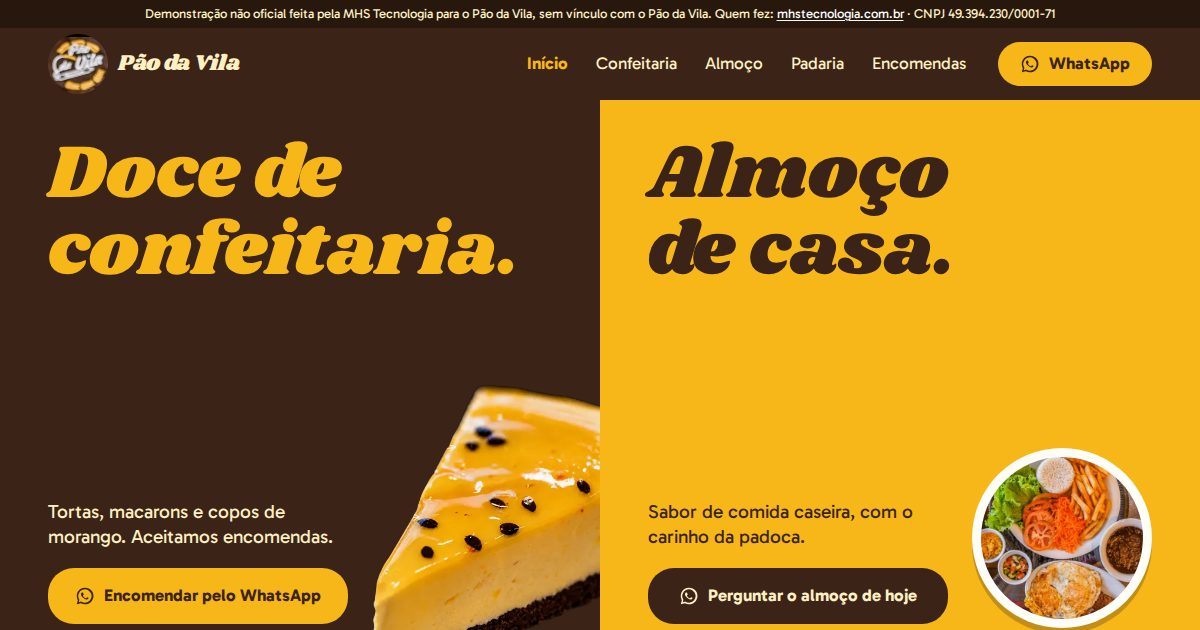
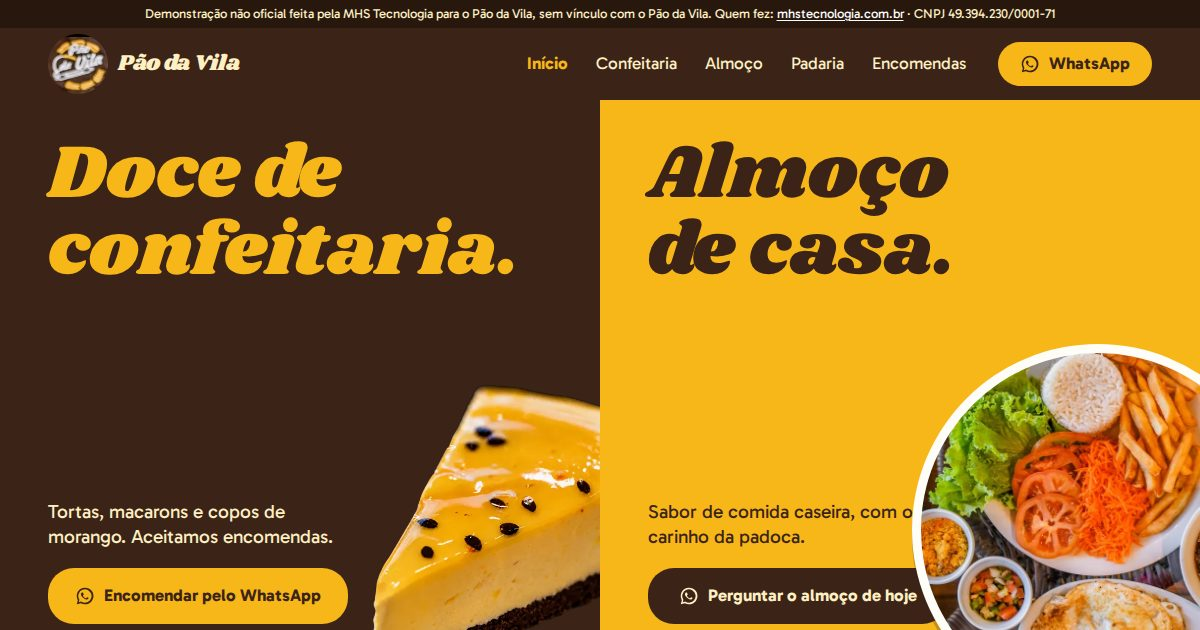
Previews: 44 ativos

Changed region(s): [[0.74, 0.5429, 1.0, 1.0]]

diff --git a/pao-da-vila-joinville-sc/index.html b/pao-da-vila-joinville-sc/index.html
@@ -40,14 +40,14 @@
       <p>Tortas, macarons e copos de morango. Aceitamos encomendas.</p>
       <a class="btn " href="https://wa.me/554792177555?text=Oi!%20Vi%20a%20demonstra%C3%A7%C3%A3o%20do%20site%20e%20queria%20encomendar%20um%20doce."><svg class="ic" viewBox="0 0 24 24" width="20" height="20" aria-hidden="true"><path fill="currentColor" d="M12 2a10 10 0 0 0-8.6 15l-1.3 5 5.1-1.3A10 10 0 1 0 12 2Zm0 18a8 8 0 0 1-4.2-1.2l-.3-.2-3 .8.8-2.9-.2-.3A8 8 0 1 1 12 20Zm4.5-5.6c-.2-.1-1.5-.7-1.7-.8-.2-.1-.4-.1-.6.1l-.8 1c-.1.2-.3.2-.5.1a6.6 6.6 0 0 1-3.300-2.900c-.1-.2 0-.4.1-.5l.4-.5.3-.4v-.5l-.8-1.800c-.2-.5-.4-.4-.6-.4h-.5c-.2 0-.4.1-.6.3a2.500 2.500 0 0 0-.8 1.900 4.400 4.400 0 0 0 .9 2.300 10 10 0 0 0 3.800 3.400c2.200.9 2.200.6 2.600.6a2.200 2.200 0 0 0 1.500-1 1.800 1.800 0 0 0 .1-1c0-.1-.2-.2-.5-.3Z"/></svg><span>Encomendar pelo WhatsApp</span></a>
     </div>
-    <img src="img/fatia-1000.webp" srcset="img/fatia-420.webp 420w, img/fatia-720.webp 720w, img/fatia-1000.webp 1000w" sizes="(max-width: 860px) 46vw, 30vw" width="1000" height="1206" alt="Fatia de cheesecake de maracujá com sementes e base de chocolate" fetchpriority="high" class="h-fatia">
+    <img src="img/fatia-1000.webp" srcset="img/fatia-420.webp 420w, img/fatia-720.webp 720w, img/fatia-1000.webp 1000w" sizes="(max-width: 860px) 46vw, 30vw" width="1000" height="1206" alt="Fatia de maracujá com sementes e base de chocolate" fetchpriority="high" class="h-fatia">
   </div>
   <div class="lado lado-almoco">
     <div class="lado-txt">
       <p>Sabor de comida caseira, com o carinho da padoca.</p>
       <a class="btn btn-cacau" href="https://wa.me/554792177555?text=Oi!%20Qual%20%C3%A9%20o%20almo%C3%A7o%20de%20hoje%3F"><svg class="ic" viewBox="0 0 24 24" width="20" height="20" aria-hidden="true"><path fill="currentColor" d="M12 2a10 10 0 0 0-8.6 15l-1.3 5 5.1-1.3A10 10 0 1 0 12 2Zm0 18a8 8 0 0 1-4.2-1.2l-.3-.2-3 .8.8-2.9-.2-.3A8 8 0 1 1 12 20Zm4.5-5.6c-.2-.1-1.5-.7-1.7-.8-.2-.1-.4-.1-.6.1l-.8 1c-.1.2-.3.2-.5.1a6.6 6.6 0 0 1-3.300-2.900c-.1-.2 0-.4.1-.5l.4-.5.3-.4v-.5l-.8-1.800c-.2-.5-.4-.4-.6-.4h-.5c-.2 0-.4.1-.6.3a2.500 2.500 0 0 0-.8 1.900 4.400 4.400 0 0 0 .9 2.300 10 10 0 0 0 3.800 3.400c2.200.9 2.200.6 2.600.6a2.200 2.200 0 0 0 1.500-1 1.800 1.800 0 0 0 .1-1c0-.1-.2-.2-.5-.3Z"/></svg><span>Perguntar o almoço de hoje</span></a>
     </div>
-    <div class="prato"><img src="img/mesa-1100.webp" srcset="img/mesa-420.webp 420w, img/mesa-720.webp 720w, img/mesa-1100.webp 1100w" sizes="(max-width: 860px) 42vw, 26vw" width="1100" height="1100" alt="Almoço servido visto de cima: arroz, salada, batata frita, feijão, bife e ovo" fetchpriority="auto"></div>
+    <div class="prato"><img src="img/mesa-1100.webp" srcset="img/mesa-420.webp 420w, img/mesa-720.webp 720w, img/mesa-1100.webp 1100w" sizes="(max-width: 860px) 42vw, 440px" width="1100" height="1100" alt="Almoço servido visto de cima: arroz, salada, batata frita, feijão, bife e ovo" fetchpriority="auto"></div>
   </div>
 </section>
 <p class="faixa">O vizinho que t&#111;do mundo confia. Rua João Meiers, 795, Joinville.</p>
@@ -59,12 +59,12 @@
   </div>
   <div class="vidro">
     <ul class="prateleira">
-      <li><div class="vaga ponta-e"><img src="img/v-tortinha-640.webp" srcset="img/v-tortinha-320.webp 320w, img/v-tortinha-640.webp 640w" sizes="(max-width: 860px) 46vw, 30vw" width="640" height="490" alt="Tortinha coberta de morangos com borda de castanha picada" loading="lazy" decoding="async"></div><p class="etiqueta">Tortinha de morango</p></li>
-      <li><div class="vaga "><img src="img/v-macarons-640.webp" srcset="img/v-macarons-320.webp 320w, img/v-macarons-640.webp 640w" sizes="(max-width: 860px) 46vw, 30vw" width="640" height="387" alt="Três macarons azul-turquesa recheados de chocolate" loading="lazy" decoding="async"></div><p class="etiqueta">Macarons</p></li>
+      <li><div class="vaga atras"><img src="img/v-tortinha-640.webp" srcset="img/v-tortinha-320.webp 320w, img/v-tortinha-640.webp 640w" sizes="(max-width: 860px) 46vw, 30vw" width="640" height="490" alt="Tortinha coberta de morangos com borda de castanha picada" loading="lazy" decoding="async"></div><p class="etiqueta">Tortinha de morango</p></li>
+      <li><div class="vaga frente"><img src="img/v-macarons-640.webp" srcset="img/v-macarons-320.webp 320w, img/v-macarons-640.webp 640w" sizes="(max-width: 860px) 46vw, 30vw" width="640" height="387" alt="Três macarons azul-turquesa recheados de chocolate" loading="lazy" decoding="async"></div><p class="etiqueta">Macarons</p></li>
       <li><div class="vaga "><img src="img/v-fatia-640.webp" srcset="img/v-fatia-320.webp 320w, img/v-fatia-640.webp 640w" sizes="(max-width: 860px) 46vw, 30vw" width="640" height="582" alt="Fatia de bolo de chocolate com creme confeitado, morango e bombom" loading="lazy" decoding="async"></div><p class="etiqueta">Fatia de chocolate</p></li>
       <li><div class="vaga "><img src="img/v-cookie-640.webp" srcset="img/v-cookie-320.webp 320w, img/v-cookie-640.webp 640w" sizes="(max-width: 860px) 46vw, 30vw" width="640" height="289" alt="Cookie de chocolate coberto de confetes coloridos" loading="lazy" decoding="async"></div><p class="etiqueta">Cookie com confete</p></li>
-      <li><div class="vaga "><img src="img/v-bolinho-640.webp" srcset="img/v-bolinho-320.webp 320w, img/v-bolinho-640.webp 640w" sizes="(max-width: 860px) 46vw, 30vw" width="640" height="377" alt="Bolinho dourado numa forminha de papel pregueada" loading="lazy" decoding="async"></div><p class="etiqueta">Bolinho na forminha</p></li>
-      <li><div class="vaga ponta-d"><img src="img/v-torta-640.webp" srcset="img/v-torta-320.webp 320w, img/v-torta-640.webp 640w" sizes="(max-width: 860px) 46vw, 30vw" width="640" height="474" alt="Torta com cobertura branca e bombons cortados por cima" loading="lazy" decoding="async"></div><p class="etiqueta">Torta com bombons</p></li>
+      <li><div class="vaga atras"><img src="img/v-torta-640.webp" srcset="img/v-torta-320.webp 320w, img/v-torta-640.webp 640w" sizes="(max-width: 860px) 46vw, 30vw" width="640" height="474" alt="Torta com cobertura branca e bombons cortados por cima" loading="lazy" decoding="async"></div><p class="etiqueta">Torta com bombons</p></li>
+      <li><div class="vaga frente"><img src="img/v-bolinho-640.webp" srcset="img/v-bolinho-320.webp 320w, img/v-bolinho-640.webp 640w" sizes="(max-width: 860px) 46vw, 30vw" width="640" height="377" alt="Doce dourado numa forminha de papel pregueada" loading="lazy" decoding="async"></div><p class="etiqueta">Assado na forminha</p></li>
     </ul>
   </div>
   <div class="vitrine-pe">
@@ -85,12 +85,12 @@
 
 <section class="balcao" aria-labelledby="t-balcao">
   <div class="balcao-txt">
-    <h2 id="t-balcao">Pão, salgado e café</h2>
+    <h2 id="t-balcao">Padaria e café</h2>
     <p>Além da confeitaria, o Pão da Vila é café, pães e salgados.</p>
     <a class="link-escuro" href="padaria.html">Ver a padaria</a>
   </div>
-  <figure class="b1"><img src="img/paes-900.webp" srcset="img/paes-560.webp 560w, img/paes-900.webp 900w" sizes="(max-width: 860px) 60vw, 34vw" width="900" height="1125" alt="Pães franceses dourados, um deles partido ao meio" loading="lazy" decoding="async"><figcaption>Pão francês</figcaption></figure>
-  <figure class="b2"><img src="img/salgado-900.webp" srcset="img/salgado-560.webp 560w, img/salgado-900.webp 900w" sizes="(max-width: 860px) 50vw, 26vw" width="900" height="1125" alt="Pães recheados assados num prato, com ervas por cima" loading="lazy" decoding="async"><figcaption>Pão recheado assado</figcaption></figure>
+  <figure class="b1"><img src="img/rosquinhas-900.webp" srcset="img/rosquinhas-560.webp 560w, img/rosquinhas-900.webp 900w" sizes="(max-width: 860px) 60vw, 34vw" width="900" height="1125" alt="Rosquinhas fritas empilhadas, polvilhadas de açúcar" loading="lazy" decoding="async"><figcaption>Rosquinhas com açúcar</figcaption></figure>
+  <figure class="b2"><img src="img/cuca-900.webp" srcset="img/cuca-560.webp 560w, img/cuca-900.webp 900w" sizes="(max-width: 860px) 50vw, 26vw" width="900" height="1125" alt="Doce com farofa dourada numa travessa preta, com xícara de café ao fundo" loading="lazy" decoding="async"><figcaption>Doce com farofa e café</figcaption></figure>
 </section>
 
 <section class="encomenda" aria-labelledby="t-enc">
@@ -136,7 +136,7 @@
     <p>Removido a pedido: <a href="mailto:contato@mhstecnologia.com.br">contato@mhstecnologia.com.br</a></p>
   </div>
 </footer>
-<a class="fixo" href="https://wa.me/554792177555?text=Oi!%20Vi%20a%20demonstra%C3%A7%C3%A3o%20do%20site%20e%20queria%20encomendar%20um%20doce." aria-label="Encomendar pelo WhatsApp"><svg class="ic" viewBox="0 0 24 24" width="20" height="20" aria-hidden="true"><path fill="currentColor" d="M12 2a10 10 0 0 0-8.6 15l-1.3 5 5.1-1.3A10 10 0 1 0 12 2Zm0 18a8 8 0 0 1-4.2-1.2l-.3-.2-3 .8.8-2.9-.2-.3A8 8 0 1 1 12 20Zm4.5-5.6c-.2-.1-1.5-.7-1.7-.8-.2-.1-.4-.1-.6.1l-.8 1c-.1.2-.3.2-.5.1a6.6 6.6 0 0 1-3.300-2.900c-.1-.2 0-.4.1-.5l.4-.5.3-.4v-.5l-.8-1.800c-.2-.5-.4-.4-.6-.4h-.5c-.2 0-.4.1-.6.3a2.500 2.500 0 0 0-.8 1.900 4.400 4.400 0 0 0 .9 2.300 10 10 0 0 0 3.800 3.400c2.200.9 2.200.6 2.600.6a2.200 2.200 0 0 0 1.500-1 1.800 1.800 0 0 0 .1-1c0-.1-.2-.2-.5-.3Z"/></svg><span>Encomendar pelo WhatsApp</span></a>
+<a class="fixo" href="https://wa.me/554792177555?text=Oi!%20Vi%20a%20demonstra%C3%A7%C3%A3o%20do%20site%20e%20queria%20encomendar%20um%20doce."><svg class="ic" viewBox="0 0 24 24" width="20" height="20" aria-hidden="true"><path fill="currentColor" d="M12 2a10 10 0 0 0-8.6 15l-1.3 5 5.1-1.3A10 10 0 1 0 12 2Zm0 18a8 8 0 0 1-4.2-1.2l-.3-.2-3 .8.8-2.9-.2-.3A8 8 0 1 1 12 20Zm4.5-5.6c-.2-.1-1.5-.7-1.7-.8-.2-.1-.4-.1-.6.1l-.8 1c-.1.2-.3.2-.5.1a6.6 6.6 0 0 1-3.300-2.900c-.1-.2 0-.4.1-.5l.4-.5.3-.4v-.5l-.8-1.800c-.2-.5-.4-.4-.6-.4h-.5c-.2 0-.4.1-.6.3a2.500 2.500 0 0 0-.8 1.900 4.400 4.400 0 0 0 .9 2.300 10 10 0 0 0 3.800 3.400c2.200.9 2.200.6 2.600.6a2.200 2.200 0 0 0 1.500-1 1.800 1.800 0 0 0 .1-1c0-.1-.2-.2-.5-.3Z"/></svg><span>Encomendar pelo WhatsApp</span></a>
 <script src="app.js" defer></script>
 </body>
 </html>

diff --git a/pao-da-vila-joinville-sc/confeitaria.html b/pao-da-vila-joinville-sc/confeitaria.html
@@ -5,7 +5,7 @@
 <meta name="viewport" content="width=device-width, initial-scale=1">
 <meta name="robots" content="noindex, nofollow">
 <title>Confeitaria artesanal | Pão da Vila, Joinville</title>
-<meta name="description" content="Cheesecake de maracujá, macarons, tortas e doces no copo da confeitaria artesanal do Pão da Vila, em Joinville.">
+<meta name="description" content="Macarons, tortas, bolos e doces no copo da confeitaria artesanal do Pão da Vila, em Joinville.">
 <meta name="theme-color" content="#3B2417">
 <link rel="icon" href="img/logo-112.webp" type="image/webp">
 <link rel="preload" href="fonts/shrikhand-latin.woff2" as="font" type="font/woff2" crossorigin>
@@ -28,27 +28,28 @@
   <p>Tortas, macarons, bolos e doces no copo. Aceitamos encomendas.</p>
 </section>
 <section class="camadas" aria-labelledby="t-camadas">
-  <div class="camadas-foto"><img src="img/cheesecake-1122.webp" srcset="img/cheesecake-520.webp 520w, img/cheesecake-900.webp 900w, img/cheesecake-1122.webp 1122w" sizes="(max-width: 860px) 100vw, 46vw" width="1122" height="1402" alt="Fatia de cheesecake de maracujá com legendas: cobertura de maracujá, sementes de maracujá, mousse de maracujá e base de chocolate" loading="lazy" decoding="async"></div>
+  <div class="camadas-foto">
+    <img src="img/cheesecake-1122.webp" srcset="img/cheesecake-520.webp 520w, img/cheesecake-900.webp 900w, img/cheesecake-1122.webp 1122w" sizes="(max-width: 860px) 100vw, 560px" width="1122" height="1402" alt="Fatia de maracujá com sementes, em camadas sobre base de chocolate" loading="lazy" decoding="async">
+    <span class="rotulo r1">Cobertura<br>de maracujá</span>
+    <span class="rotulo r2">Sementes<br>de maracujá</span>
+    <span class="rotulo r3">Mousse<br>de maracujá</span>
+    <span class="rotulo r4">Base de<br>chocolate</span>
+  </div>
   <div class="camadas-txt">
-    <h2 id="t-camadas">Cheesecake de maracujá, de cima para baixo</h2>
-    <ol>
-      <li>Cobertura de maracujá</li>
-      <li>Sementes de maracujá</li>
-      <li>Mousse de maracujá</li>
-      <li>Base de chocolate</li>
-    </ol>
+    <h2 id="t-camadas">Maracujá em camadas, sobre base de chocolate</h2>
+    <a class="btn " href="https://wa.me/554792177555?text=Oi!%20Vi%20a%20demonstra%C3%A7%C3%A3o%20do%20site%20e%20queria%20encomendar%20um%20doce."><svg class="ic" viewBox="0 0 24 24" width="20" height="20" aria-hidden="true"><path fill="currentColor" d="M12 2a10 10 0 0 0-8.6 15l-1.3 5 5.1-1.3A10 10 0 1 0 12 2Zm0 18a8 8 0 0 1-4.2-1.2l-.3-.2-3 .8.8-2.9-.2-.3A8 8 0 1 1 12 20Zm4.5-5.6c-.2-.1-1.5-.7-1.7-.8-.2-.1-.4-.1-.6.1l-.8 1c-.1.2-.3.2-.5.1a6.6 6.6 0 0 1-3.300-2.900c-.1-.2 0-.4.1-.5l.4-.5.3-.4v-.5l-.8-1.800c-.2-.5-.4-.4-.6-.4h-.5c-.2 0-.4.1-.6.3a2.500 2.500 0 0 0-.8 1.900 4.400 4.400 0 0 0 .9 2.300 10 10 0 0 0 3.800 3.400c2.200.9 2.200.6 2.600.6a2.200 2.200 0 0 0 1.500-1 1.800 1.800 0 0 0 .1-1c0-.1-.2-.2-.5-.3Z"/></svg><span>Encomendar pelo WhatsApp</span></a>
   </div>
 </section>
-<section class="mural" aria-label="Mais doces">
-  <figure class="m-a"><img src="img/bolo-coco-900.webp" srcset="img/bolo-coco-520.webp 520w, img/bolo-coco-900.webp 900w" sizes="(max-width: 860px) 100vw, 40vw" width="900" height="1125" alt="Bandeja de bolo coberto de chocolate granulado e coco" loading="lazy" decoding="async"><figcaption>Bolo com granulado e coco</figcaption></figure>
-  <figure class="m-b"><img src="img/copo-colher-900.webp" srcset="img/copo-colher-520.webp 520w, img/copo-colher-900.webp 900w" sizes="(max-width: 860px) 60vw, 28vw" width="900" height="1125" alt="Colher tirando creme de um copo de doce com morango" loading="lazy" decoding="async"><figcaption>Doce de morango no copo</figcaption></figure>
-  <figure class="m-e"><img src="img/copo-morango-900.webp" srcset="img/copo-morango-520.webp 520w, img/copo-morango-900.webp 900w" sizes="(max-width: 860px) 60vw, 28vw" width="900" height="1126" alt="Copo transparente com camadas de chocolate e creme e um morango inteiro em cima" loading="lazy" decoding="async"><figcaption>Copo de morango com chocolate</figcaption></figure>
-  <figure class="m-c"><img src="img/tortinha-900.webp" srcset="img/tortinha-520.webp 520w, img/tortinha-900.webp 900w" sizes="(max-width: 860px) 60vw, 28vw" width="900" height="1125" alt="Tortinha de morangos num prato branco, com xícara de café ao fundo" loading="lazy" decoding="async"><figcaption>Tortinha de morango</figcaption></figure>
-  <figure class="m-d"><img src="img/fatia-foto-900.webp" srcset="img/fatia-foto-520.webp 520w, img/fatia-foto-900.webp 900w" sizes="(max-width: 860px) 100vw, 40vw" width="900" height="1125" alt="Fatia de bolo de chocolate com creme confeitado, morango e bombom" loading="lazy" decoding="async"><figcaption>Fatia de chocolate com creme</figcaption></figure>
-  <div class="m-nota">
-    <h2>Gostou de algum?</h2>
-    <p>Mande a foto pelo WhatsApp e pergunte se dá para encomendar.</p>
-    <a class="link-branco" href="encomendas.html">Como encomendar</a>
+<section class="vitrine vitrine-pag" data-vitrine aria-label="Mais doces">
+  <div class="vidro">
+    <ul class="prateleira p-doces">
+      <li class="largo"><div class="foto"><img src="img/bolo-coco-900.webp" srcset="img/bolo-coco-520.webp 520w, img/bolo-coco-900.webp 900w" sizes="(max-width: 860px) 100vw, 33vw" width="900" height="1125" alt="Bandeja de bolo coberto de chocolate granulado e coco" loading="lazy" decoding="async"></div><p class="etiqueta">Bolo com granulado e coco</p></li>
+      <li><div class="foto"><img src="img/copo-colher-900.webp" srcset="img/copo-colher-520.webp 520w, img/copo-colher-900.webp 900w" sizes="(max-width: 860px) 50vw, 33vw" width="900" height="1125" alt="Colher tirando creme de um copo de doce com morango" loading="lazy" decoding="async"></div><p class="etiqueta">Doce de morango no copo</p></li>
+      <li><div class="foto"><img src="img/copo-morango-900.webp" srcset="img/copo-morango-520.webp 520w, img/copo-morango-900.webp 900w" sizes="(max-width: 860px) 50vw, 33vw" width="900" height="1126" alt="Copo transparente com camadas de chocolate e creme e um morango inteiro em cima" loading="lazy" decoding="async"></div><p class="etiqueta">Copo de morango com chocolate</p></li>
+      <li><div class="foto"><img src="img/tortinha-900.webp" srcset="img/tortinha-520.webp 520w, img/tortinha-900.webp 900w" sizes="(max-width: 860px) 50vw, 33vw" width="900" height="1125" alt="Tortinha de morangos num prato branco, com xícara de café ao fundo" loading="lazy" decoding="async"></div><p class="etiqueta">Tortinha de morango</p></li>
+      <li><div class="foto"><img src="img/fatia-foto-900.webp" srcset="img/fatia-foto-520.webp 520w, img/fatia-foto-900.webp 900w" sizes="(max-width: 860px) 50vw, 33vw" width="900" height="1125" alt="Fatia de bolo de chocolate com creme confeitado, morango e bombom" loading="lazy" decoding="async"></div><p class="etiqueta">Fatia de chocolate com creme</p></li>
+      <li class="nota largo"><h2>Gostou de algum?</h2><p>Mande a foto e pergunte se dá para encomendar.</p><a class="btn " href="https://wa.me/554792177555?text=Oi!%20Vi%20a%20demonstra%C3%A7%C3%A3o%20do%20site%20e%20queria%20encomendar%20um%20doce."><svg class="ic" viewBox="0 0 24 24" width="20" height="20" aria-hidden="true"><path fill="currentColor" d="M12 2a10 10 0 0 0-8.6 15l-1.3 5 5.1-1.3A10 10 0 1 0 12 2Zm0 18a8 8 0 0 1-4.2-1.2l-.3-.2-3 .8.8-2.9-.2-.3A8 8 0 1 1 12 20Zm4.5-5.6c-.2-.1-1.5-.7-1.7-.8-.2-.1-.4-.1-.6.1l-.8 1c-.1.2-.3.2-.5.1a6.6 6.6 0 0 1-3.300-2.900c-.1-.2 0-.4.1-.5l.4-.5.3-.4v-.5l-.8-1.800c-.2-.5-.4-.4-.6-.4h-.5c-.2 0-.4.1-.6.3a2.500 2.500 0 0 0-.8 1.900 4.400 4.400 0 0 0 .9 2.300 10 10 0 0 0 3.800 3.400c2.200.9 2.200.6 2.600.6a2.200 2.200 0 0 0 1.500-1 1.800 1.800 0 0 0 .1-1c0-.1-.2-.2-.5-.3Z"/></svg><span>Perguntar pelo WhatsApp</span></a></li>
+    </ul>
   </div>
 </section>
 <section class="fecho" aria-label="Quer um desses para a sua mesa?">
@@ -77,7 +78,7 @@
     <p>Removido a pedido: <a href="mailto:contato@mhstecnologia.com.br">contato@mhstecnologia.com.br</a></p>
   </div>
 </footer>
-<a class="fixo" href="https://wa.me/554792177555?text=Oi!%20Vi%20a%20demonstra%C3%A7%C3%A3o%20do%20site%20e%20queria%20encomendar%20um%20doce." aria-label="Encomendar pelo WhatsApp"><svg class="ic" viewBox="0 0 24 24" width="20" height="20" aria-hidden="true"><path fill="currentColor" d="M12 2a10 10 0 0 0-8.6 15l-1.3 5 5.1-1.3A10 10 0 1 0 12 2Zm0 18a8 8 0 0 1-4.2-1.2l-.3-.2-3 .8.8-2.9-.2-.3A8 8 0 1 1 12 20Zm4.5-5.6c-.2-.1-1.5-.7-1.7-.8-.2-.1-.4-.1-.6.1l-.8 1c-.1.2-.3.2-.5.1a6.6 6.6 0 0 1-3.300-2.900c-.1-.2 0-.4.1-.5l.4-.5.3-.4v-.5l-.8-1.800c-.2-.5-.4-.4-.6-.4h-.5c-.2 0-.4.1-.6.3a2.500 2.500 0 0 0-.8 1.900 4.400 4.400 0 0 0 .9 2.300 10 10 0 0 0 3.800 3.400c2.200.9 2.200.6 2.600.6a2.200 2.200 0 0 0 1.500-1 1.800 1.800 0 0 0 .1-1c0-.1-.2-.2-.5-.3Z"/></svg><span>Encomendar pelo WhatsApp</span></a>
+<a class="fixo" href="https://wa.me/554792177555?text=Oi!%20Vi%20a%20demonstra%C3%A7%C3%A3o%20do%20site%20e%20queria%20encomendar%20um%20doce."><svg class="ic" viewBox="0 0 24 24" width="20" height="20" aria-hidden="true"><path fill="currentColor" d="M12 2a10 10 0 0 0-8.6 15l-1.3 5 5.1-1.3A10 10 0 1 0 12 2Zm0 18a8 8 0 0 1-4.2-1.2l-.3-.2-3 .8.8-2.9-.2-.3A8 8 0 1 1 12 20Zm4.5-5.6c-.2-.1-1.5-.7-1.7-.8-.2-.1-.4-.1-.6.1l-.8 1c-.1.2-.3.2-.5.1a6.6 6.6 0 0 1-3.300-2.900c-.1-.2 0-.4.1-.5l.4-.5.3-.4v-.5l-.8-1.800c-.2-.5-.4-.4-.6-.4h-.5c-.2 0-.4.1-.6.3a2.500 2.500 0 0 0-.8 1.900 4.400 4.400 0 0 0 .9 2.300 10 10 0 0 0 3.800 3.400c2.200.9 2.200.6 2.600.6a2.200 2.200 0 0 0 1.500-1 1.800 1.800 0 0 0 .1-1c0-.1-.2-.2-.5-.3Z"/></svg><span>Encomendar pelo WhatsApp</span></a>
 <script src="app.js" defer></script>
 </body>
 </html>

diff --git a/pao-da-vila-joinville-sc/estilo.css b/pao-da-vila-joinville-sc/estilo.css
@@ -85,17 +85,37 @@ html:not(.js) .topo { flex-wrap: wrap; }
 .vidro { max-width: 1180px; margin: 0 auto; position: relative; overflow: hidden; }
 .prateleira { display: grid; grid-template-columns: repeat(2, minmax(0, 1fr)); }
 .vaga { height: clamp(150px, 42vw, 210px); display: flex; align-items: flex-end; justify-content: center; padding: 12px 8px 0; }
-.vaga.ponta-e { justify-content: flex-start; padding-left: 0; }
-.vaga.ponta-d { justify-content: flex-end; padding-right: 0; }
+/* o lado cortado pela foto original fica atrás do doce vizinho */
+.prateleira li { position: relative; }
+.prateleira li:has(.frente) { z-index: 2; }
+.vaga.atras { justify-content: flex-end; padding-right: 0; }
+.vaga.atras img { margin-right: -5%; max-width: 105%; }
+.vaga.frente { justify-content: flex-start; padding-left: 0; }
+.vaga.frente img { max-width: 88%; }
 .vaga img { max-height: 100%; width: auto; object-fit: contain; object-position: bottom; filter: drop-shadow(0 8px 6px rgba(0, 0, 0, .45)); }
 .etiqueta { background: var(--maracuja); color: var(--cacau); font-weight: 700; font-size: 1rem; line-height: 1.15; min-height: 46px; display: flex; align-items: center; justify-content: center; text-align: center; padding: 4px 8px; box-shadow: inset 0 3px 0 rgba(255, 255, 255, .35); }
 .prateleira li:nth-child(odd) .etiqueta { border-right: 1px solid rgba(59, 36, 23, .35); }
 .vitrine-pe { display: flex; flex-wrap: wrap; align-items: center; justify-content: center; gap: 8px 24px; margin-top: 30px; }
 
+/* vitrine nas páginas internas: fotos na prateleira, etiqueta colada embaixo */
+.vitrine-pag { padding-block: 32px; }
+.vitrine-pag::before { background: radial-gradient(80% 30% at 50% 0, rgba(255, 196, 92, .34), transparent 72%), radial-gradient(80% 30% at 50% 60%, rgba(255, 196, 92, .2), transparent 72%); }
+.vitrine-pag .prateleira { row-gap: 22px; }
+.foto img { width: 100%; }
+.prateleira li { display: flex; flex-direction: column; }
+.prateleira .foto { flex: none; margin-top: auto; }
+.p-almoco .vaga { flex: 1 1 auto; height: auto; min-height: 150px; padding: 10px; }
+.p-almoco .vaga img { width: 100%; height: auto; }
+.prateleira .largo { grid-column: 1 / -1; }
+.nota { background: var(--macaron); color: #fff; padding: 24px 22px; justify-content: center; align-items: flex-start; gap: 10px; }
+.nota h2 { font-size: clamp(2rem, 1.5rem + 2vw, 3rem); }
+
 html.js .vitrine::before { opacity: 0; transition: opacity 1.2s ease-out; }
 html.js .vitrine .vaga img { filter: brightness(.5) drop-shadow(0 8px 6px rgba(0, 0, 0, .45)); transition: filter 1.2s ease-out; }
+html.js .vitrine .foto img { filter: brightness(.5); transition: filter 1.2s ease-out; }
 html.js .vitrine.acesa::before { opacity: 1; }
 html.js .vitrine.acesa .vaga img { filter: brightness(1) drop-shadow(0 8px 6px rgba(0, 0, 0, .45)); }
+html.js .vitrine.acesa .foto img { filter: brightness(1); }
 .vidro::after { content: ""; position: absolute; top: 0; bottom: 0; left: -40%; width: 26%; background: linear-gradient(100deg, transparent, rgba(255, 255, 255, .13), transparent); transform: skewX(-14deg); pointer-events: none; }
 .acesa .vidro::after { animation: pano 1.5s .5s ease-in-out both; }
 @keyframes pano { to { left: 120%; } }
@@ -140,24 +160,19 @@ figcaption { font-size: .9375rem; font-weight: 600; padding-top: 6px; line-heigh
 .cab-cacau h1 { color: var(--maracuja); }
 .cab-maracuja { background: var(--maracuja); }
 .cab-macaron { background: var(--macaron); color: #fff; }
+.cab-macaron .btn { margin-top: 18px; }
 
 .camadas { background: var(--cacau-fundo); color: var(--creme); display: grid; }
+.camadas-foto { position: relative; container-type: inline-size; }
 .camadas-foto img { width: 100%; }
+/* legendas do post refeitas em texto real, por cima das que vinham na foto */
+.rotulo { position: absolute; transform: translate(-50%, -50%); background: var(--cacau-fundo); color: #fff; font-size: clamp(.8125rem, 2.6cqw, .9375rem); font-weight: 600; line-height: 1.15; min-width: 26cqw; padding: 5px 8px; border-radius: 4px; text-align: center; }
+.r1 { left: 21%; top: 21.5%; }
+.r2 { left: 15.5%; top: 43%; }
+.r3 { left: 86.5%; top: 68%; }
+.r4 { left: 87%; top: 90%; }
 .camadas-txt { padding: 30px var(--gut) 38px; }
-.camadas-txt h2 { font-size: clamp(1.875rem, 1.4rem + 2vw, 2.875rem); color: var(--maracuja); margin-bottom: 18px; }
-.camadas ol { counter-reset: c; }
-.camadas li { counter-increment: c; display: flex; align-items: baseline; gap: 14px; padding: 10px 0; border-top: 1px solid rgba(255, 240, 196, .25); font-size: 1.1875rem; }
-.camadas li::before { content: counter(c); font: 400 1.5rem/1 var(--disp); color: var(--maracuja); min-width: 1.1em; }
-
-.mural { padding: 32px var(--gut); display: grid; grid-template-columns: repeat(12, minmax(0, 1fr)); gap: 22px 12px; max-width: 1240px; margin: 0 auto; }
-.m-a { grid-column: 1 / -1; }
-.m-b { grid-column: 1 / 7; }
-.m-c { grid-column: 1 / 7; }
-.m-d { grid-column: 7 / -1; }
-.m-e { grid-column: 7 / -1; }
-.m-nota { grid-column: 1 / -1; background: var(--macaron); color: #fff; padding: 26px 22px; display: flex; flex-direction: column; justify-content: center; align-items: flex-start; gap: 10px; }
-.m-nota h2 { font-size: clamp(2rem, 1.5rem + 2vw, 3rem); }
-.link-branco { display: inline-flex; align-items: center; min-height: 44px; color: #fff; font-weight: 700; text-underline-offset: 4px; }
+.camadas-txt h2 { font-size: clamp(1.875rem, 1.4rem + 2vw, 2.875rem); color: var(--maracuja); margin-bottom: 22px; }
 
 .prato-do-dia { display: grid; background: var(--cacau); color: var(--creme); }
 .pd-foto img { width: 100%; }
@@ -166,11 +181,6 @@ figcaption { font-size: .9375rem; font-weight: 600; padding-top: 6px; line-heigh
 .lista-mesa { margin-bottom: 16px; }
 .lista-mesa li { padding: 8px 0; border-top: 1px solid rgba(255, 240, 196, .25); font-size: 1.1875rem; }
 .pd-txt p { margin-bottom: 18px; }
-
-.tres { padding: 32px var(--gut); display: grid; gap: 24px; max-width: 1240px; margin: 0 auto; }
-.tres figure { max-width: 520px; margin: 0 auto; width: 100%; }
-
-.fileira { padding: 28px var(--gut); display: grid; gap: 22px; max-width: 1240px; margin: 0 auto; }
 
 .enc-pag { display: grid; background: var(--cacau); color: var(--creme); }
 .enc-pag-txt { padding: 34px var(--gut) 34px; }
@@ -229,6 +239,10 @@ figcaption { font-size: .9375rem; font-weight: 600; padding-top: 6px; line-heigh
   .h-fatia { margin: 0; }
   .prato { margin: 0 0 32px; padding: 9px; }
   .faixa { font-size: 1.125rem; }
+  @media (min-width: 1181px) {
+    /* o prato sangra para fora do painel, como a fatia */
+    .prato { position: absolute; right: -84px; bottom: -56px; width: clamp(340px, 31vw, 440px); margin: 0; }
+  }
 
   .vitrine { padding: 64px var(--gut) 60px; }
   .prateleira { grid-template-columns: repeat(3, minmax(0, 1fr)); }
@@ -236,6 +250,12 @@ figcaption { font-size: .9375rem; font-weight: 600; padding-top: 6px; line-heigh
   .etiqueta { font-size: 1.0625rem; }
   .prateleira li:nth-child(odd) .etiqueta { border-right: 0; }
   .prateleira li:not(:nth-child(3n)) .etiqueta { border-right: 1px solid rgba(59, 36, 23, .35); }
+  .vitrine-pag { padding-block: 56px; }
+  .prateleira .largo { grid-column: auto; }
+  .p-doces { row-gap: 32px; }
+  .p-padaria { grid-template-columns: repeat(4, minmax(0, 1fr)); }
+  .p-padaria li:nth-child(n) .etiqueta { border-right: 1px solid rgba(59, 36, 23, .35); }
+  .p-almoco { grid-template-columns: 1.28fr 1.1fr .8fr; }
 
   .servido { grid-template-columns: 1fr 1fr; align-items: stretch; }
   .servido-foto { max-height: 760px; overflow: hidden; }
@@ -258,22 +278,9 @@ figcaption { font-size: .9375rem; font-weight: 600; padding-top: 6px; line-heigh
   .pag-cab { padding: 56px var(--gut) 52px; }
   .camadas { grid-template-columns: minmax(0, 560px) minmax(0, 1fr); justify-content: center; align-items: center; }
   .camadas-txt { padding: 40px var(--gut); max-width: 640px; }
-  .mural { padding: 56px var(--gut); gap: 28px 24px; }
-  .m-a { grid-column: 1 / 6; align-self: end; }
-  .m-b { grid-column: 6 / 10; align-self: end; }
-  .m-e { grid-column: 10 / -1; align-self: end; }
-  .m-c { grid-column: 1 / 4; }
-  .m-d { grid-column: 4 / 8; }
-  .m-nota { grid-column: 8 / -1; align-self: stretch; }
 
   .prato-do-dia { grid-template-columns: minmax(0, 620px) minmax(0, 1fr); align-items: center; }
   .pd-txt { padding: 40px var(--gut); max-width: 640px; }
-
-  .tres { padding: 56px var(--gut); grid-template-columns: 5fr 3.4fr 3.2fr; align-items: end; gap: 28px; }
-  .tres figure { max-width: none; }
-
-  .fileira { padding: 56px var(--gut) 72px; max-width: 1136px; grid-template-columns: 1fr 1fr; gap: 28px 32px; }
-  .fileira figure:nth-child(even) { transform: translateY(44px); }
 
   .enc-pag { grid-template-columns: minmax(0, 1fr) minmax(0, 560px); align-items: center; justify-content: center; }
   .enc-pag-txt { padding: 48px var(--gut); max-width: 700px; justify-self: end; }

diff --git a/pao-da-vila-joinville-sc/padaria.html b/pao-da-vila-joinville-sc/padaria.html
@@ -5,7 +5,7 @@
 <meta name="viewport" content="width=device-width, initial-scale=1">
 <meta name="robots" content="noindex, nofollow">
 <title>Café, pães e salgados | Pão da Vila, Joinville</title>
-<meta name="description" content="Café, pães, cuca e salgados do Pão da Vila, em Joinville.">
+<meta name="description" content="Café, pães e salgados do Pão da Vila, em Joinville.">
 <meta name="theme-color" content="#3B2417">
 <link rel="icon" href="img/logo-112.webp" type="image/webp">
 <link rel="preload" href="fonts/shrikhand-latin.woff2" as="font" type="font/woff2" crossorigin>
@@ -26,12 +26,17 @@
 <section class="pag-cab cab-macaron" data-heroi>
   <h1>Café, pães e salgados</h1>
   <p>O lado padaria do vizinho, para acompanhar o doce ou começar o dia.</p>
+  <a class="btn " href="https://wa.me/554792177555?text=Oi!%20Queria%20falar%20com%20o%20P%C3%A3o%20da%20Vila."><svg class="ic" viewBox="0 0 24 24" width="20" height="20" aria-hidden="true"><path fill="currentColor" d="M12 2a10 10 0 0 0-8.6 15l-1.3 5 5.1-1.3A10 10 0 1 0 12 2Zm0 18a8 8 0 0 1-4.2-1.2l-.3-.2-3 .8.8-2.9-.2-.3A8 8 0 1 1 12 20Zm4.5-5.6c-.2-.1-1.5-.7-1.7-.8-.2-.1-.4-.1-.6.1l-.8 1c-.1.2-.3.2-.5.1a6.6 6.6 0 0 1-3.300-2.900c-.1-.2 0-.4.1-.5l.4-.5.3-.4v-.5l-.8-1.800c-.2-.5-.4-.4-.6-.4h-.5c-.2 0-.4.1-.6.3a2.500 2.500 0 0 0-.8 1.900 4.400 4.400 0 0 0 .9 2.300 10 10 0 0 0 3.800 3.400c2.200.9 2.200.6 2.600.6a2.200 2.200 0 0 0 1.500-1 1.800 1.800 0 0 0 .1-1c0-.1-.2-.2-.5-.3Z"/></svg><span>Falar pelo WhatsApp</span></a>
 </section>
-<section class="fileira" aria-label="Padaria">
-  <figure class="f-grande"><img src="img/cuca-900.webp" srcset="img/cuca-560.webp 560w, img/cuca-900.webp 900w" sizes="(max-width: 860px) 100vw, 56vw" width="900" height="1125" alt="Cuca de farofa dourada numa travessa preta, com xícara de café e tortinhas ao fundo" loading="lazy" decoding="async"><figcaption>Cuca com café</figcaption></figure>
-  <figure><img src="img/rosquinhas-900.webp" srcset="img/rosquinhas-560.webp 560w, img/rosquinhas-900.webp 900w" sizes="(max-width: 860px) 100vw, 36vw" width="900" height="1125" alt="Rosquinhas fritas empilhadas, polvilhadas de açúcar" loading="lazy" decoding="async"><figcaption>Rosquinhas com açúcar</figcaption></figure>
-  <figure><img src="img/cookie-cafe-900.webp" srcset="img/cookie-cafe-560.webp 560w, img/cookie-cafe-900.webp 900w" sizes="(max-width: 860px) 100vw, 36vw" width="900" height="1126" alt="Cookie de chocolate com confetes coloridos num prato, ao lado de uma xícara de café" loading="lazy" decoding="async"><figcaption>Cookie com confete e café</figcaption></figure>
-  <figure class="f-grande"><img src="img/cuca-perto-900.webp" srcset="img/cuca-perto-560.webp 560w, img/cuca-perto-900.webp 900w" sizes="(max-width: 860px) 100vw, 56vw" width="900" height="1125" alt="Close de um pedaço de cuca, com a massa macia e a farofa por cima" loading="lazy" decoding="async"><figcaption>A farofa da cuca, de perto</figcaption></figure>
+<section class="vitrine vitrine-pag" data-vitrine aria-label="Padaria">
+  <div class="vidro">
+    <ul class="prateleira p-padaria">
+      <li><div class="foto"><img src="img/salgado-900.webp" srcset="img/salgado-560.webp 560w, img/salgado-900.webp 900w" sizes="(max-width: 860px) 50vw, 25vw" width="900" height="1125" alt="Pães recheados assados num prato, com ervas por cima" loading="lazy" decoding="async"></div><p class="etiqueta">Pão recheado assado</p></li>
+      <li><div class="foto"><img src="img/paes-900.webp" srcset="img/paes-560.webp 560w, img/paes-900.webp 900w" sizes="(max-width: 860px) 50vw, 25vw" width="900" height="1125" alt="Pães franceses dourados, um deles partido ao meio" loading="lazy" decoding="async"></div><p class="etiqueta">Pão francês</p></li>
+      <li><div class="foto"><img src="img/cookie-cafe-900.webp" srcset="img/cookie-cafe-560.webp 560w, img/cookie-cafe-900.webp 900w" sizes="(max-width: 860px) 50vw, 25vw" width="900" height="1126" alt="Cookie de chocolate com confetes coloridos num prato, ao lado de uma xícara de café" loading="lazy" decoding="async"></div><p class="etiqueta">Cookie com confete e café</p></li>
+      <li><div class="foto"><img src="img/rosquinhas-900.webp" srcset="img/rosquinhas-560.webp 560w, img/rosquinhas-900.webp 900w" sizes="(max-width: 860px) 50vw, 25vw" width="900" height="1125" alt="Rosquinhas fritas empilhadas, polvilhadas de açúcar" loading="lazy" decoding="async"></div><p class="etiqueta">Rosquinhas com açúcar</p></li>
+    </ul>
+  </div>
 </section>
 <section class="fecho" aria-label="Vai passar aqui?">
   <div class="fecho-in">
@@ -59,7 +64,7 @@
     <p>Removido a pedido: <a href="mailto:contato@mhstecnologia.com.br">contato@mhstecnologia.com.br</a></p>
   </div>
 </footer>
-<a class="fixo" href="https://wa.me/554792177555?text=Oi!%20Vi%20a%20demonstra%C3%A7%C3%A3o%20do%20site%20e%20queria%20encomendar%20um%20doce." aria-label="Encomendar pelo WhatsApp"><svg class="ic" viewBox="0 0 24 24" width="20" height="20" aria-hidden="true"><path fill="currentColor" d="M12 2a10 10 0 0 0-8.6 15l-1.3 5 5.1-1.3A10 10 0 1 0 12 2Zm0 18a8 8 0 0 1-4.2-1.2l-.3-.2-3 .8.8-2.9-.2-.3A8 8 0 1 1 12 20Zm4.5-5.6c-.2-.1-1.5-.7-1.7-.8-.2-.1-.4-.1-.6.1l-.8 1c-.1.2-.3.2-.5.1a6.6 6.6 0 0 1-3.300-2.900c-.1-.2 0-.4.1-.5l.4-.5.3-.4v-.5l-.8-1.800c-.2-.5-.4-.4-.6-.4h-.5c-.2 0-.4.1-.6.3a2.500 2.500 0 0 0-.8 1.900 4.400 4.400 0 0 0 .9 2.300 10 10 0 0 0 3.800 3.400c2.200.9 2.200.6 2.600.6a2.200 2.200 0 0 0 1.500-1 1.800 1.800 0 0 0 .1-1c0-.1-.2-.2-.5-.3Z"/></svg><span>Encomendar pelo WhatsApp</span></a>
+<a class="fixo" href="https://wa.me/554792177555?text=Oi!%20Queria%20falar%20com%20o%20P%C3%A3o%20da%20Vila."><svg class="ic" viewBox="0 0 24 24" width="20" height="20" aria-hidden="true"><path fill="currentColor" d="M12 2a10 10 0 0 0-8.6 15l-1.3 5 5.1-1.3A10 10 0 1 0 12 2Zm0 18a8 8 0 0 1-4.2-1.2l-.3-.2-3 .8.8-2.9-.2-.3A8 8 0 1 1 12 20Zm4.5-5.6c-.2-.1-1.5-.7-1.7-.8-.2-.1-.4-.1-.6.1l-.8 1c-.1.2-.3.2-.5.1a6.6 6.6 0 0 1-3.300-2.900c-.1-.2 0-.4.1-.5l.4-.5.3-.4v-.5l-.8-1.800c-.2-.5-.4-.4-.6-.4h-.5c-.2 0-.4.1-.6.3a2.500 2.500 0 0 0-.8 1.900 4.400 4.400 0 0 0 .9 2.300 10 10 0 0 0 3.800 3.400c2.200.9 2.200.6 2.600.6a2.200 2.200 0 0 0 1.500-1 1.800 1.800 0 0 0 .1-1c0-.1-.2-.2-.5-.3Z"/></svg><span>Falar pelo WhatsApp</span></a>
 <script src="app.js" defer></script>
 </body>
 </html>

diff --git a/pao-da-vila-joinville-sc/almoco.html b/pao-da-vila-joinville-sc/almoco.html
@@ -38,10 +38,14 @@
     <a class="btn " href="https://wa.me/554792177555?text=Oi!%20Qual%20%C3%A9%20o%20almo%C3%A7o%20de%20hoje%3F"><svg class="ic" viewBox="0 0 24 24" width="20" height="20" aria-hidden="true"><path fill="currentColor" d="M12 2a10 10 0 0 0-8.6 15l-1.3 5 5.1-1.3A10 10 0 1 0 12 2Zm0 18a8 8 0 0 1-4.2-1.2l-.3-.2-3 .8.8-2.9-.2-.3A8 8 0 1 1 12 20Zm4.5-5.6c-.2-.1-1.5-.7-1.7-.8-.2-.1-.4-.1-.6.1l-.8 1c-.1.2-.3.2-.5.1a6.6 6.6 0 0 1-3.300-2.900c-.1-.2 0-.4.1-.5l.4-.5.3-.4v-.5l-.8-1.800c-.2-.5-.4-.4-.6-.4h-.5c-.2 0-.4.1-.6.3a2.500 2.500 0 0 0-.8 1.900 4.400 4.400 0 0 0 .9 2.300 10 10 0 0 0 3.800 3.400c2.200.9 2.200.6 2.600.6a2.200 2.200 0 0 0 1.500-1 1.800 1.800 0 0 0 .1-1c0-.1-.2-.2-.5-.3Z"/></svg><span>Perguntar o almoço de hoje</span></a>
   </div>
 </section>
-<section class="tres" aria-label="Mais do almoço">
-  <figure><img src="img/almoco-servido-630.webp" srcset="img/almoco-servido-630.webp 630w" sizes="(max-width: 860px) 100vw, 44vw" width="630" height="492" alt="Homem de camisa do Pão da Vila sorrindo à mesa, com a frase: O almoço está servido!" loading="lazy" decoding="async"></figure>
-  <figure class="tres-grat"><img src="img/gratinado-800.webp" srcset="img/gratinado-480.webp 480w, img/gratinado-800.webp 800w" sizes="(max-width: 860px) 100vw, 30vw" width="800" height="526" alt="Pedaço gratinado, com queijo dourado e ervas por cima" loading="lazy" decoding="async"><figcaption>Gratinado</figcaption></figure>
-  <figure><img src="img/marmita-900.webp" srcset="img/marmita-520.webp 520w, img/marmita-900.webp 900w" sizes="(max-width: 860px) 100vw, 26vw" width="900" height="1126" alt="Marmita de isopor com arroz, feijão, bife, batata frita e salada, com a frase: Sabor de comida caseira, com o carinho da padoca" loading="lazy" decoding="async"></figure>
+<section class="vitrine vitrine-pag" data-vitrine aria-label="Mais do almoço">
+  <div class="vidro">
+    <ul class="prateleira p-almoco">
+      <li class="largo"><div class="foto"><img src="img/almoco-servido-630.webp" srcset="img/almoco-servido-630.webp 630w" sizes="(max-width: 860px) 100vw, 44vw" width="630" height="492" alt="Homem de camisa do Pão da Vila sorrindo à mesa, com a frase: O almoço está servido!" loading="lazy" decoding="async"></div><p class="etiqueta">À mesa no Pão da Vila</p></li>
+      <li><div class="vaga"><img src="img/gratinado-800.webp" srcset="img/gratinado-480.webp 480w, img/gratinado-800.webp 800w" sizes="(max-width: 860px) 50vw, 30vw" width="800" height="526" alt="Pedaço gratinado, com queijo dourado e ervas por cima" loading="lazy" decoding="async"></div><p class="etiqueta">Gratinado de queijo e ervas</p></li>
+      <li><div class="foto"><img src="img/marmita-900.webp" srcset="img/marmita-520.webp 520w, img/marmita-900.webp 900w" sizes="(max-width: 860px) 50vw, 26vw" width="900" height="1126" alt="Marmita de isopor com arroz, feijão, bife, batata frita e salada, com a frase: Sabor de comida caseira, com o carinho da padoca" loading="lazy" decoding="async"></div><p class="etiqueta">Marmita</p></li>
+    </ul>
+  </div>
 </section>
 <section class="fecho" aria-label="Vai almoçar com a gente?">
   <div class="fecho-in">
@@ -69,7 +73,7 @@
     <p>Removido a pedido: <a href="mailto:contato@mhstecnologia.com.br">contato@mhstecnologia.com.br</a></p>
   </div>
 </footer>
-<a class="fixo" href="https://wa.me/554792177555?text=Oi!%20Vi%20a%20demonstra%C3%A7%C3%A3o%20do%20site%20e%20queria%20encomendar%20um%20doce." aria-label="Encomendar pelo WhatsApp"><svg class="ic" viewBox="0 0 24 24" width="20" height="20" aria-hidden="true"><path fill="currentColor" d="M12 2a10 10 0 0 0-8.6 15l-1.3 5 5.1-1.3A10 10 0 1 0 12 2Zm0 18a8 8 0 0 1-4.2-1.2l-.3-.2-3 .8.8-2.9-.2-.3A8 8 0 1 1 12 20Zm4.5-5.6c-.2-.1-1.5-.7-1.7-.8-.2-.1-.4-.1-.6.1l-.8 1c-.1.2-.3.2-.5.1a6.6 6.6 0 0 1-3.300-2.900c-.1-.2 0-.4.1-.5l.4-.5.3-.4v-.5l-.8-1.800c-.2-.5-.4-.4-.6-.4h-.5c-.2 0-.4.1-.6.3a2.500 2.500 0 0 0-.8 1.900 4.400 4.400 0 0 0 .9 2.300 10 10 0 0 0 3.800 3.400c2.200.9 2.200.6 2.600.6a2.200 2.200 0 0 0 1.500-1 1.800 1.800 0 0 0 .1-1c0-.1-.2-.2-.5-.3Z"/></svg><span>Encomendar pelo WhatsApp</span></a>
+<a class="fixo" href="https://wa.me/554792177555?text=Oi!%20Qual%20%C3%A9%20o%20almo%C3%A7o%20de%20hoje%3F"><svg class="ic" viewBox="0 0 24 24" width="20" height="20" aria-hidden="true"><path fill="currentColor" d="M12 2a10 10 0 0 0-8.6 15l-1.3 5 5.1-1.3A10 10 0 1 0 12 2Zm0 18a8 8 0 0 1-4.2-1.2l-.3-.2-3 .8.8-2.9-.2-.3A8 8 0 1 1 12 20Zm4.5-5.6c-.2-.1-1.5-.7-1.7-.8-.2-.1-.4-.1-.6.1l-.8 1c-.1.2-.3.2-.5.1a6.6 6.6 0 0 1-3.300-2.900c-.1-.2 0-.4.1-.5l.4-.5.3-.4v-.5l-.8-1.800c-.2-.5-.4-.4-.6-.4h-.5c-.2 0-.4.1-.6.3a2.500 2.500 0 0 0-.8 1.900 4.400 4.400 0 0 0 .9 2.300 10 10 0 0 0 3.800 3.400c2.200.9 2.200.6 2.600.6a2.200 2.200 0 0 0 1.500-1 1.800 1.800 0 0 0 .1-1c0-.1-.2-.2-.5-.3Z"/></svg><span>Perguntar o almoço de hoje</span></a>
 <script src="app.js" defer></script>
 </body>
 </html>

diff --git a/pao-da-vila-joinville-sc/encomendas.html b/pao-da-vila-joinville-sc/encomendas.html
@@ -68,7 +68,7 @@
     <p>Removido a pedido: <a href="mailto:contato@mhstecnologia.com.br">contato@mhstecnologia.com.br</a></p>
   </div>
 </footer>
-<a class="fixo" href="https://wa.me/554792177555?text=Oi!%20Vi%20a%20demonstra%C3%A7%C3%A3o%20do%20site%20e%20queria%20encomendar%20um%20doce." aria-label="Encomendar pelo WhatsApp"><svg class="ic" viewBox="0 0 24 24" width="20" height="20" aria-hidden="true"><path fill="currentColor" d="M12 2a10 10 0 0 0-8.6 15l-1.3 5 5.1-1.3A10 10 0 1 0 12 2Zm0 18a8 8 0 0 1-4.2-1.2l-.3-.2-3 .8.8-2.9-.2-.3A8 8 0 1 1 12 20Zm4.5-5.6c-.2-.1-1.5-.7-1.7-.8-.2-.1-.4-.1-.6.1l-.8 1c-.1.2-.3.2-.5.1a6.6 6.6 0 0 1-3.300-2.900c-.1-.2 0-.4.1-.5l.4-.5.3-.4v-.5l-.8-1.800c-.2-.5-.4-.4-.6-.4h-.5c-.2 0-.4.1-.6.3a2.500 2.500 0 0 0-.8 1.900 4.400 4.400 0 0 0 .9 2.300 10 10 0 0 0 3.800 3.400c2.200.9 2.200.6 2.600.6a2.200 2.200 0 0 0 1.500-1 1.800 1.800 0 0 0 .1-1c0-.1-.2-.2-.5-.3Z"/></svg><span>Encomendar pelo WhatsApp</span></a>
+<a class="fixo" href="https://wa.me/554792177555?text=Oi!%20Vi%20a%20demonstra%C3%A7%C3%A3o%20do%20site%20e%20queria%20encomendar%20um%20doce."><svg class="ic" viewBox="0 0 24 24" width="20" height="20" aria-hidden="true"><path fill="currentColor" d="M12 2a10 10 0 0 0-8.6 15l-1.3 5 5.1-1.3A10 10 0 1 0 12 2Zm0 18a8 8 0 0 1-4.2-1.2l-.3-.2-3 .8.8-2.9-.2-.3A8 8 0 1 1 12 20Zm4.5-5.6c-.2-.1-1.5-.7-1.7-.8-.2-.1-.4-.1-.6.1l-.8 1c-.1.2-.3.2-.5.1a6.6 6.6 0 0 1-3.300-2.900c-.1-.2 0-.4.1-.5l.4-.5.3-.4v-.5l-.8-1.800c-.2-.5-.4-.4-.6-.4h-.5c-.2 0-.4.1-.6.3a2.500 2.500 0 0 0-.8 1.900 4.400 4.400 0 0 0 .9 2.300 10 10 0 0 0 3.800 3.400c2.200.9 2.200.6 2.600.6a2.200 2.200 0 0 0 1.500-1 1.800 1.800 0 0 0 .1-1c0-.1-.2-.2-.5-.3Z"/></svg><span>Encomendar pelo WhatsApp</span></a>
 <script src="app.js" defer></script>
 </body>
 </html>

diff --git a/pao-da-vila-joinville-sc/app.js b/pao-da-vila-joinville-sc/app.js
@@ -25,17 +25,17 @@ if (heroi && fixo && 'IntersectionObserver' in window) {
 }
 
 // A luz da vitrine acende quando ela entra na tela
-const vitrine = document.querySelector('[data-vitrine]')
-if (vitrine) {
-  if ('IntersectionObserver' in window && !matchMedia('(prefers-reduced-motion: reduce)').matches) {
-    const obs = new IntersectionObserver(([e]) => {
-      if (e.isIntersecting) {
-        vitrine.classList.add('acesa')
-        obs.disconnect()
-      }
-    }, { threshold: 0.25 })
-    obs.observe(vitrine)
-  } else {
+const animar = 'IntersectionObserver' in window && !matchMedia('(prefers-reduced-motion: reduce)').matches
+document.querySelectorAll('[data-vitrine]').forEach((vitrine) => {
+  if (!animar) {
     vitrine.classList.add('acesa')
+    return
   }
-}
+  const obs = new IntersectionObserver(([e]) => {
+    if (e.isIntersecting) {
+      vitrine.classList.add('acesa')
+      obs.disconnect()
+    }
+  }, { threshold: 0.12 })
+  obs.observe(vitrine)
+})
